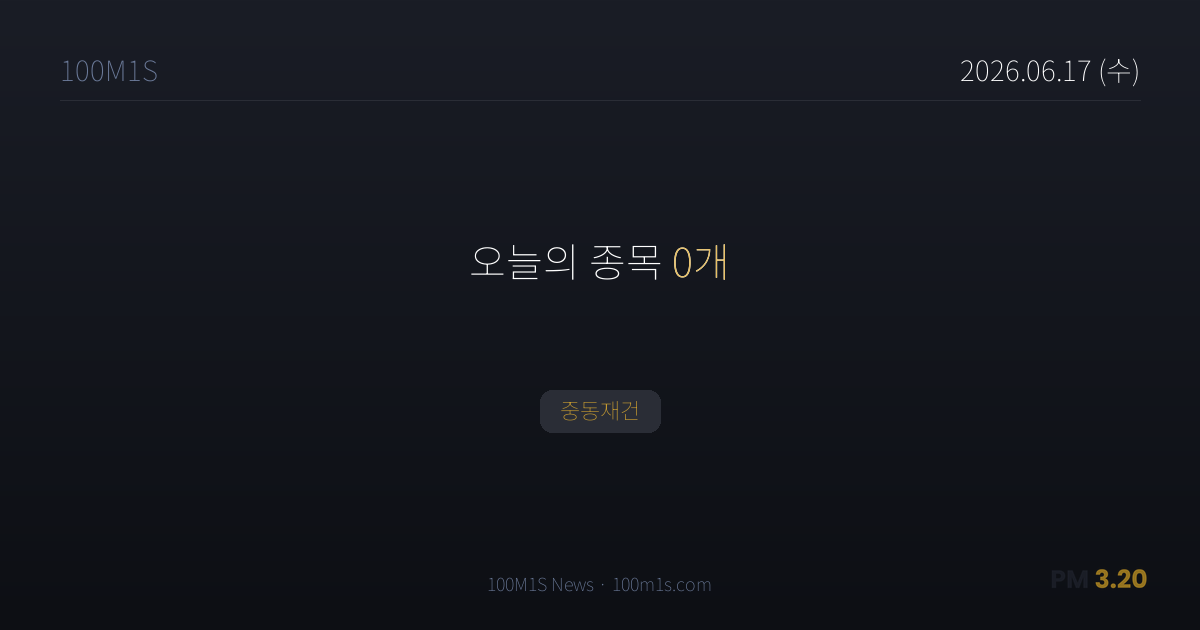
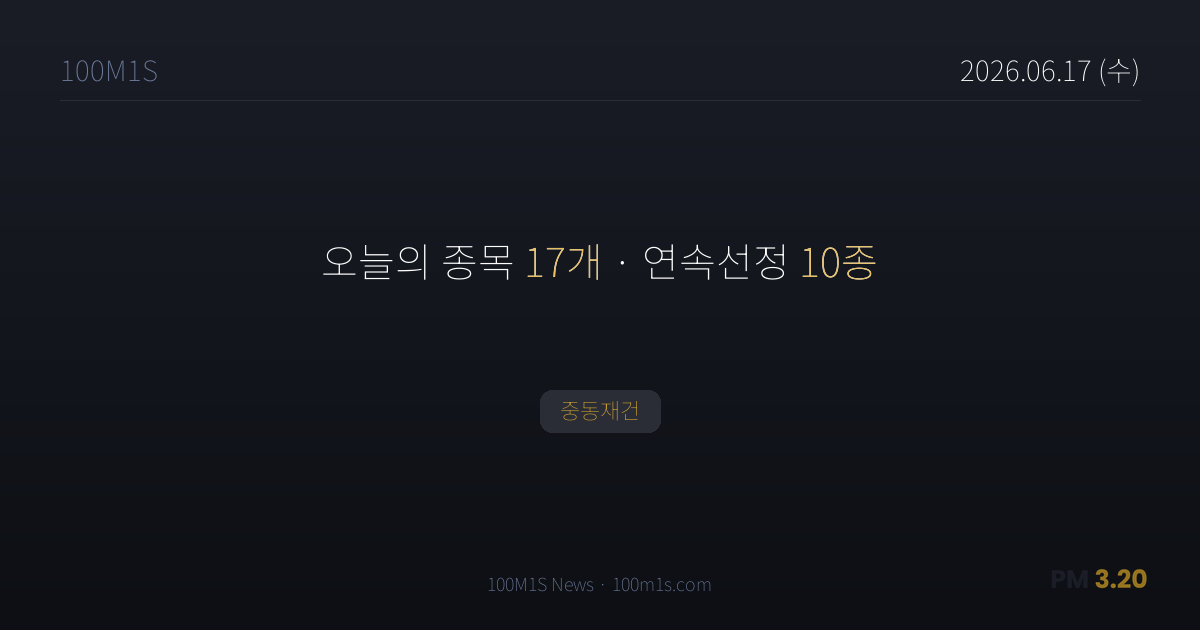
chore(kiwoom): 2026-06-17T09:15 condition search update

Changed region(s): [[0.2775, 0.3921, 0.74, 0.4524]]

diff --git a/pm320/2026-06-17.html b/pm320/2026-06-17.html
@@ -3,7 +3,7 @@
 <head>
 <meta charset="UTF-8">
 <title>6월 17일 (수) 뉴스 — 100M1S</title>
-<meta property="og:title" content="6월 17일 (수) · 종목 0개">
+<meta property="og:title" content="6월 17일 (수) · 종목 17개">
 <meta property="og:description" content="중동재건">
 <meta property="og:image" content="https://100m1s.com/og/pm320/2026-06-17.png">
 <meta property="og:image:width" content="1200">
